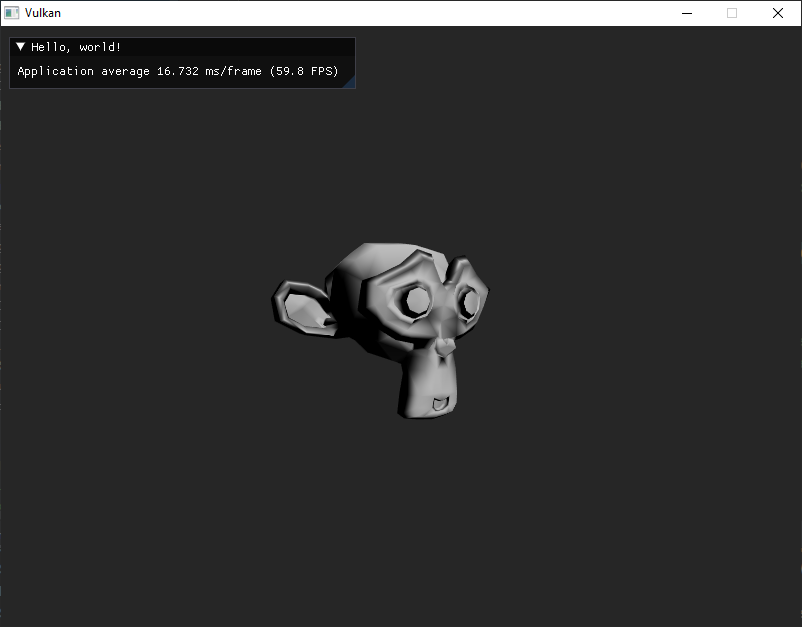
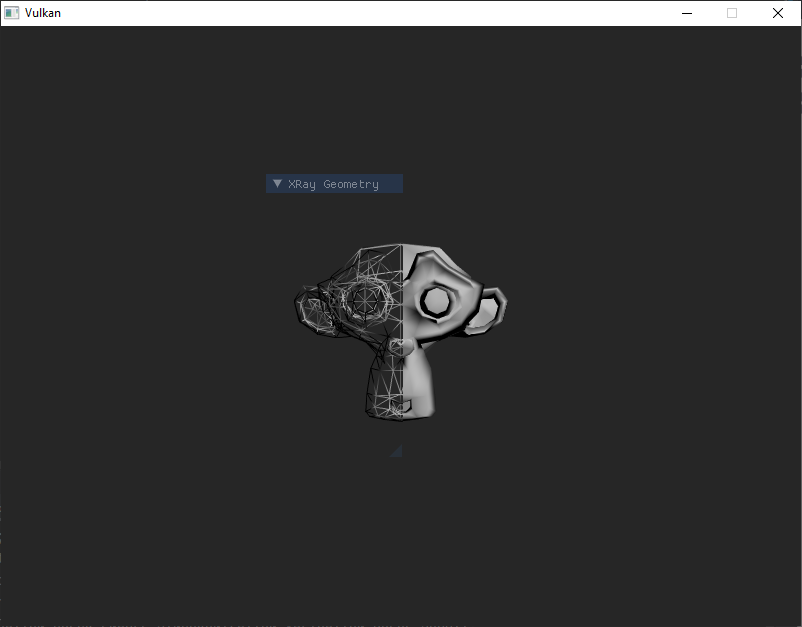
Changed project names

diff --git a/main.cpp b/main.cpp
@@ -155,6 +155,7 @@ int main() {
     };
 
     vk::PhysicalDeviceFeatures device_features{};
+    device_features.fillModeNonSolid = true;
 
     std::vector<const char*> extensions = { "VK_KHR_swapchain" };
     vk::DeviceCreateInfo device_ci{
@@ -206,18 +207,18 @@ int main() {
             .samples = msaa_samples,
             .loadOp = vk::AttachmentLoadOp::eClear,
             .storeOp = vk::AttachmentStoreOp::eStore,
-            .stencilLoadOp = vk::AttachmentLoadOp::eDontCare,
+            .stencilLoadOp = vk::AttachmentLoadOp::eClear,
             .stencilStoreOp = vk::AttachmentStoreOp::eDontCare,
             .initialLayout = vk::ImageLayout::eUndefined,
             .finalLayout = vk::ImageLayout::eColorAttachmentOptimal
     };
-    vk::Format depth_format = vk::Format::eD32Sfloat;
+    vk::Format depth_format = vk::Format::eD32SfloatS8Uint;
     vk::AttachmentDescription depth_attachment_description{
             .format = depth_format,
             .samples = msaa_samples,
             .loadOp = vk::AttachmentLoadOp::eClear,
             .storeOp = vk::AttachmentStoreOp::eDontCare,
-            .stencilLoadOp = vk::AttachmentLoadOp::eDontCare,
+            .stencilLoadOp = vk::AttachmentLoadOp::eClear,
             .stencilStoreOp = vk::AttachmentStoreOp::eDontCare,
             .initialLayout = vk::ImageLayout::eUndefined,
             .finalLayout = vk::ImageLayout::eDepthStencilAttachmentOptimal
@@ -299,7 +300,7 @@ int main() {
             vk::ComponentSwizzle::eIdentity,
         },
         .subresourceRange = {
-            .aspectMask = vk::ImageAspectFlagBits::eDepth,
+            .aspectMask = vk::ImageAspectFlagBits::eDepth | vk::ImageAspectFlagBits::eStencil,
             .baseMipLevel = 0,
             .levelCount = 1,
             .baseArrayLayer = 0,
@@ -539,14 +540,23 @@ int main() {
         .pPushConstantRanges = &push_constant_range
     });
 
+    vk::StencilOpState stencil_state{
+            .failOp = vk::StencilOp::eZero,
+            .passOp = vk::StencilOp::eReplace,
+            .depthFailOp = vk::StencilOp::eZero,
+            .compareOp = vk::CompareOp::eEqual,
+            .compareMask = 0xFF,
+            .writeMask = 0xFF,
+            .reference = 1
+    };
     vk::PipelineDepthStencilStateCreateInfo depth_state_ci{
         .depthTestEnable = true,
         .depthWriteEnable = true,
         .depthCompareOp = vk::CompareOp::eLess,
         .depthBoundsTestEnable = false,
-        .stencilTestEnable = false,
-        .front = {},
-        .back = {},
+        .stencilTestEnable = true,
+        .front = stencil_state,
+        .back = stencil_state,
         .minDepthBounds = 0.0f,
         .maxDepthBounds = 1.0f,
     };
@@ -567,6 +577,36 @@ int main() {
     };
 
     vk::Pipeline object_pipeline = device.createGraphicsPipeline({}, pipeline_ci).value;
+
+    vk::PipelineRasterizationStateCreateInfo geometry_rasterizer_ci{
+            .polygonMode = vk::PolygonMode::eLine,
+            .cullMode = vk::CullModeFlagBits::eBack,
+            .frontFace = vk::FrontFace::eCounterClockwise,
+            .lineWidth = 1.0f
+    };
+
+    std::array<vk::DynamicState, 1> dynamic_state{ vk::DynamicState::eScissor };
+    vk::PipelineDynamicStateCreateInfo dynamic_state_ci{
+        .dynamicStateCount = dynamic_state.size(),
+        .pDynamicStates = dynamic_state.data()
+    };
+
+    vk::GraphicsPipelineCreateInfo geometry_pipeline_ci{
+            .stageCount = shaders_stages.size(),
+            .pStages = shaders_stages.data(),
+            .pVertexInputState = &vertex_input_ci,
+            .pInputAssemblyState = &vertex_assembly_ci,
+            .pViewportState = &pipeline_vw_ci,
+            .pRasterizationState = &geometry_rasterizer_ci,
+            .pMultisampleState = &multisampling_settings,
+            .pDepthStencilState = &depth_state_ci,
+            .pColorBlendState = &global_blend_settings,
+            .pDynamicState = &dynamic_state_ci,
+            .layout = pipeline_layout,
+            .renderPass = render_pass,
+            .subpass = 0,
+    };
+    vk::Pipeline geometry_pipeline = device.createGraphicsPipeline({}, geometry_pipeline_ci).value;
 
     vk::CommandPool command_pool = device.createCommandPool({
         .flags = vk::CommandPoolCreateFlagBits::eResetCommandBuffer,
@@ -630,6 +670,8 @@ int main() {
     init_info.MSAASamples = VkSampleCountFlagBits(msaa_samples);
     ImGui_ImplVulkan_Init(&init_info, render_pass);
 
+    ImGui::GetStyle().Alpha = 0.4;
+
     vk::PipelineStageFlags wait_stages = vk::PipelineStageFlagBits::eColorAttachmentOutput;
 
     render_command_buffers[0].reset();
@@ -658,11 +700,15 @@ int main() {
         ImGui_ImplGlfw_NewFrame();
         ImGui::NewFrame();
 
-        ImGui::Begin("Hello, world!");
-        ImGui::Text("Application average %.3f ms/frame (%.1f FPS)",
-                    1000.0f / ImGui::GetIO().Framerate, ImGui::GetIO().Framerate);
+        ImGuiWindowFlags window_flags = 0;
+        window_flags |= ImGuiWindowFlags_NoBackground;
+        bool* open = nullptr;
+        ImGui::Begin("XRay Geometry", open, window_flags);
+        ImVec2 w_position = ImGui::GetWindowPos();
+        ImVec2 w_size = ImGui::GetWindowSize();
+        //ImGui::Text("pos: (%f , %f)", w_position.x, w_position.y);
+        //ImGui::Text("size: (%f , %f)", w_size.x, w_size.y);
         ImGui::End();
-
         ImGui::Render();
         ImDrawData* ui_draw_data = ImGui::GetDrawData();
 
@@ -673,10 +719,30 @@ int main() {
 
         std::array<vk::ClearValue, 2> clear_values{};
         clear_values[0].color = vk::ClearColorValue{{{0.15f, 0.15f, 0.15f, 1.0f}}};
-        clear_values[1].depthStencil = vk::ClearDepthStencilValue{1.0f, 0};
+        clear_values[1].depthStencil = vk::ClearDepthStencilValue{1.0f, 1};
 
         render_command_buffers[0].reset();
         render_command_buffers[0].begin(vk::CommandBufferBeginInfo{});
+        //Clear stencil buffer
+
+        vk::Rect2D window_area{
+            .offset = {0, 0},
+            .extent = swapchain_ci.imageExtent
+        };
+
+        vk::Rect2D xray_rect = {
+        vk::Offset2D{
+            static_cast<int32_t>(w_position.x),
+            static_cast<int32_t>(w_position.y)
+            },
+        vk::Extent2D{
+            static_cast<uint32_t>(w_size.x),
+            static_cast<uint32_t>(w_size.y)
+        }};
+        vk::ClearValue not_render_values{};
+        not_render_values.color = vk::ClearColorValue{{{0.15f, 0.15f, 0.15f, 1.0f}}};
+        not_render_values.depthStencil = vk::ClearDepthStencilValue{1.0f, 0};
+
         render_command_buffers[0].beginRenderPass(vk::RenderPassBeginInfo{
                 .renderPass = render_pass,
                 .framebuffer = frame_buffers[image_index],
@@ -685,12 +751,41 @@ int main() {
                 .pClearValues = clear_values.data(),
         }, vk::SubpassContents::eInline);
 
-        render_command_buffers[0].bindPipeline(vk::PipelineBindPoint::eGraphics, object_pipeline);
+        render_command_buffers[0].clearAttachments(vk::ClearAttachment{
+                .aspectMask = vk::ImageAspectFlagBits::eDepth | vk::ImageAspectFlagBits::eStencil,
+                .colorAttachment = 1,
+                .clearValue = not_render_values,
+        }, vk::ClearRect{
+                .rect = xray_rect,
+                .baseArrayLayer = 0,
+                .layerCount = 1
+        });
 
         glm::mat4 render_matrix[2] = {projection, model};
-        render_command_buffers[0].pushConstants(pipeline_layout, vk::ShaderStageFlagBits::eVertex, 0, 2 * sizeof(glm::mat4), &render_matrix);
-
         vk::DeviceSize offsets = { 0 };
+
+        render_command_buffers[0].bindPipeline(vk::PipelineBindPoint::eGraphics, object_pipeline);
+        render_command_buffers[0].pushConstants(pipeline_layout, vk::ShaderStageFlagBits::eVertex, 0, 2 * sizeof(glm::mat4), &render_matrix);
+        render_command_buffers[0].bindVertexBuffers(0, data_buffer, offsets);
+        render_command_buffers[0].bindIndexBuffer(index_buffer,0,vk::IndexType::eUint32);
+        render_command_buffers[0].drawIndexed(indices_data.size(), 1, 0, 0, 0);
+
+        vk::ClearValue render_values{};
+        render_values.color = vk::ClearColorValue{{{0.15f, 0.15f, 0.15f, 1.0f}}};
+        render_values.depthStencil = vk::ClearDepthStencilValue{1.0f, 1};
+
+        render_command_buffers[0].clearAttachments(vk::ClearAttachment{
+            .aspectMask = vk::ImageAspectFlagBits::eDepth | vk::ImageAspectFlagBits::eStencil,
+            .colorAttachment = 1,
+            .clearValue = render_values,
+        }, vk::ClearRect{
+                .rect = window_area,
+                .baseArrayLayer = 0, .layerCount = 1
+        });
+
+        render_command_buffers[0].setScissor(0, xray_rect);
+        render_command_buffers[0].bindPipeline(vk::PipelineBindPoint::eGraphics, geometry_pipeline);
+        render_command_buffers[0].pushConstants(pipeline_layout, vk::ShaderStageFlagBits::eVertex, 0, 2 * sizeof(glm::mat4), &render_matrix);
         render_command_buffers[0].bindVertexBuffers(0, data_buffer, offsets);
         render_command_buffers[0].bindIndexBuffer(index_buffer,0,vk::IndexType::eUint32);
         render_command_buffers[0].drawIndexed(indices_data.size(), 1, 0, 0, 0);

diff --git a/README.md b/README.md
@@ -1,3 +1,5 @@
-# Basic vulkan demo
+# XRay feature in Vulkan
+
+X-ray window implemented using ImGUI, stencil buffer and dynamic scissor.
 
 ![Screenshot of running vulkan app with an object on the screen](imgs/screenshot.PNG "Screenshot of running app")
